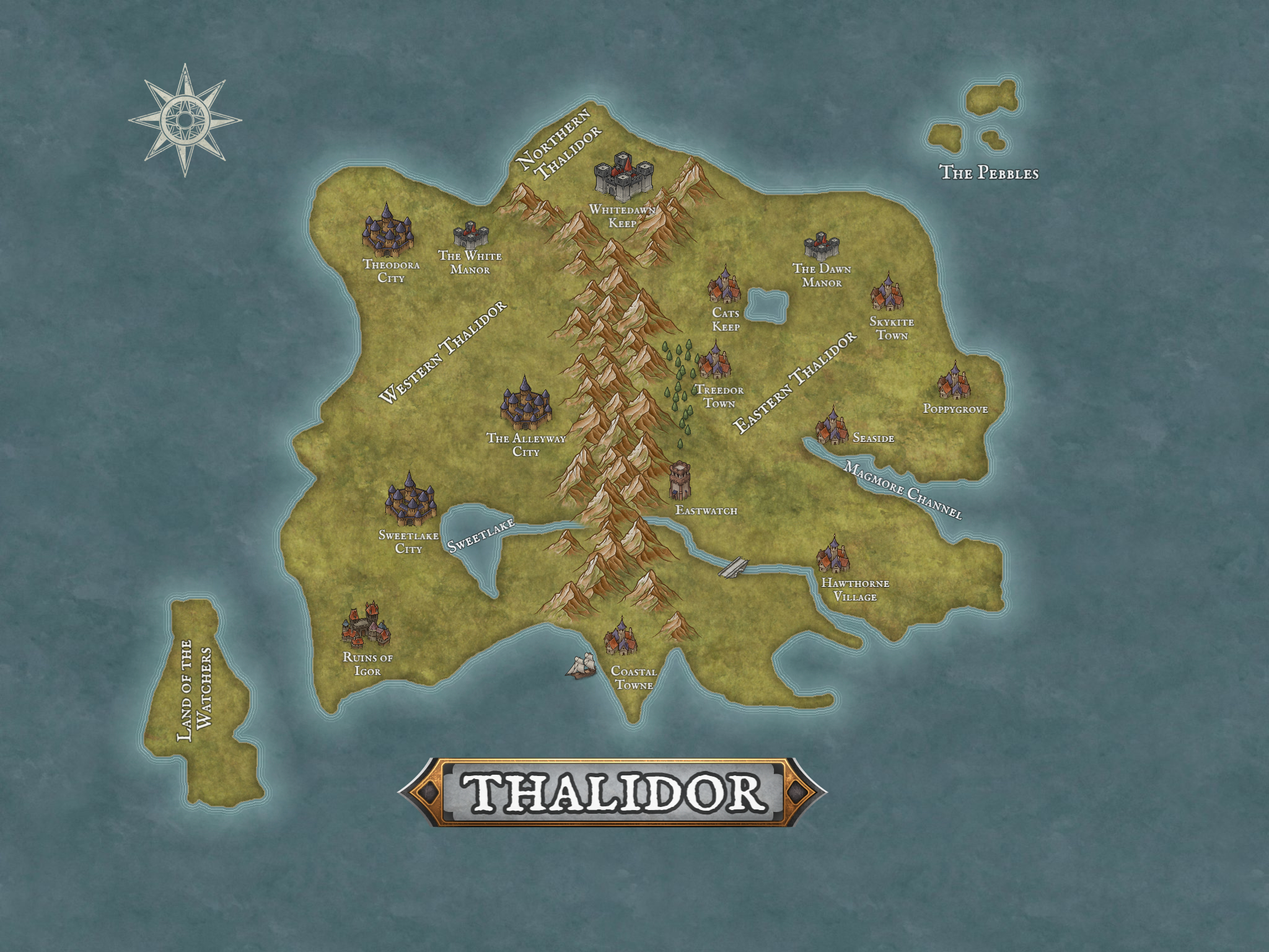
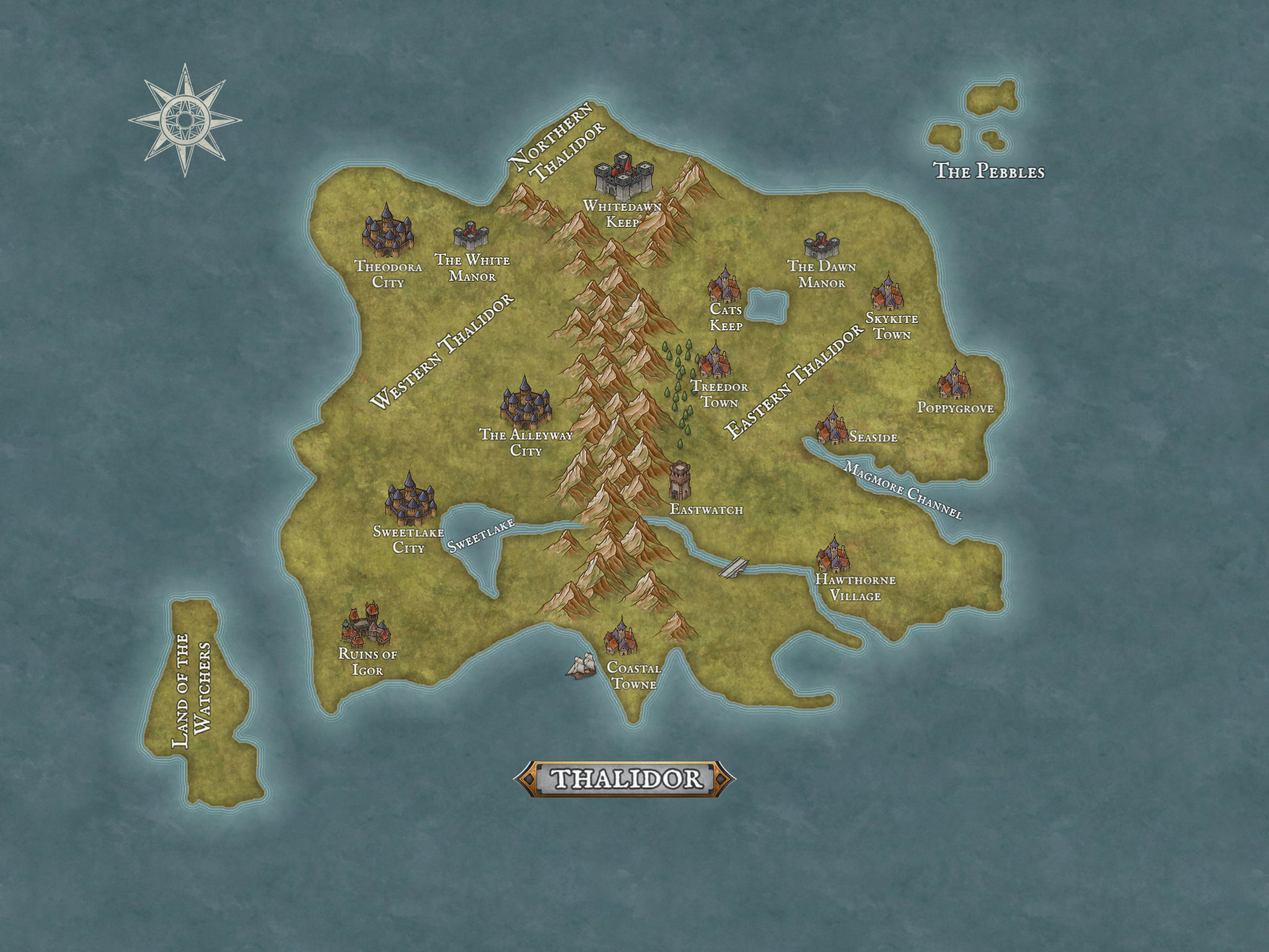
Update font sizes of map

diff --git a/Characters/Vladamir/Campaign/Government/README.md b/Characters/Vladamir/Campaign/Government/README.md
@@ -1,5 +1,5 @@
 # Thalidor
-![alt text](Thalidor.jpg)
+![alt text](<Thalidor.jpg>)
 ## Political System
 * Thalidor is an Absolute Monarchy, meaning that the ruling sovereign is not limited by a constitution, parliament, or congressional power
 * However, Thalidor's monarchy has adopted a unique progression of power due to the needs and limitations of its landscape.
